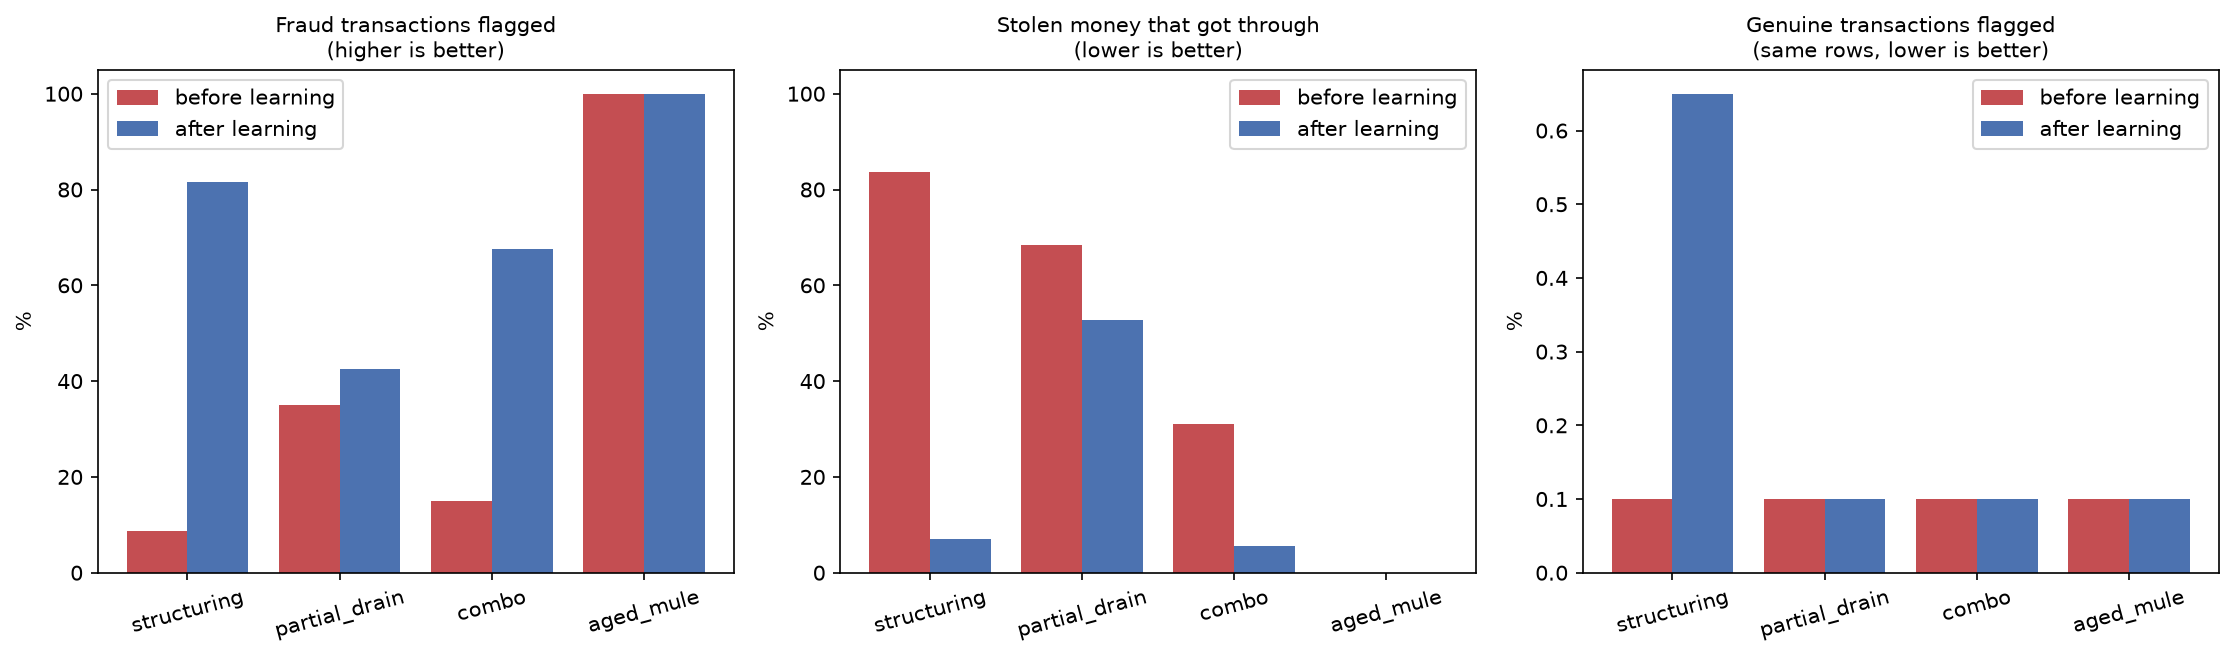
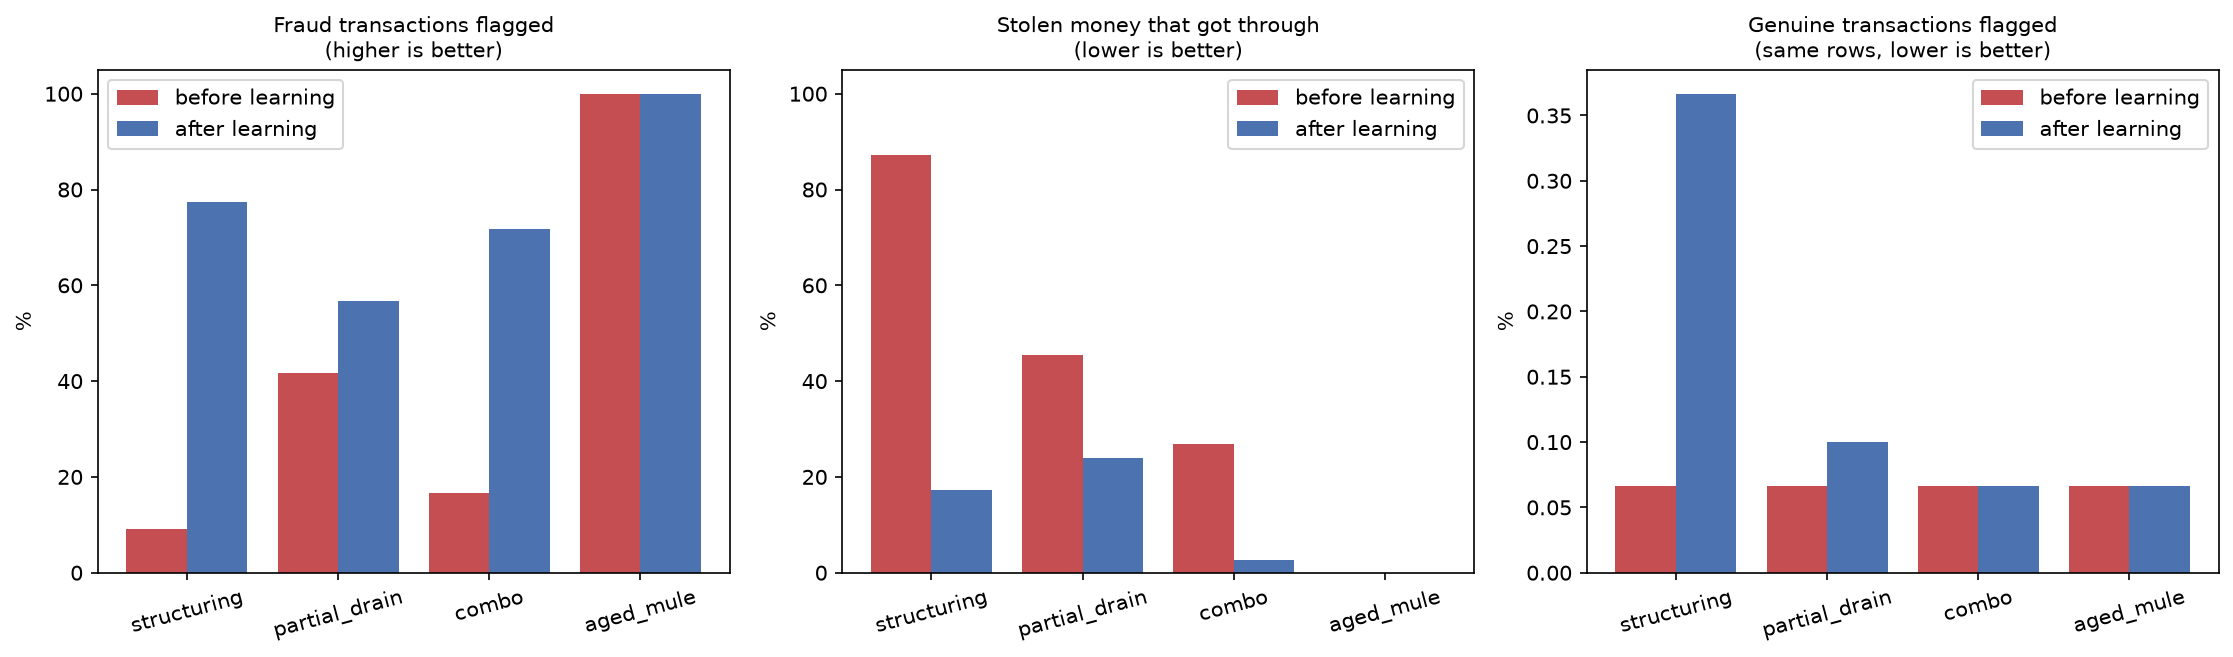
Phase 3 results: large red-team run, chart, report and write-up

diff --git a/docs/phase3_adaptive_loop.md b/docs/phase3_adaptive_loop.md
@@ -1,0 +1,41 @@
+# Phase 3: Adaptive loop
+
+## What it does
+Analysts' labels change how the system scores similar transactions in the future.
+
+- `POST /feedback` (alert reviewed) and `POST /transactions/{id}/report-fraud` (fraud that was approved, for example a customer dispute) both store the transaction as a labelled case.
+- Rule `LEARNED_FRAUD_PATTERN`: among the 10 most similar cases, analyst-confirmed fraud minus analyst-confirmed legitimate is 3 or more sends a transaction to review, and 5 or more blocks it. Seeded training cases never count, only analyst labels.
+- A "legitimate" label cancels one fraud label, so false alarms can be cleared by analysts.
+- Case search is exact (not approximate), so results are identical on every database.
+
+## Red-team experiment
+`backend/scripts/redteam.py` rewrites real held-out fraud into evasive variants, changing only what an attacker controls: split into transfers just under the 200k rule threshold (structuring), take part of the balance (partial drain), move to daytime hours, first deposit small normal-looking amounts into the receiving account (groomed mule), and a combination. Balances stay consistent and every attack uses fresh accounts.
+
+Protocol: score 60 fresh attacks (before), analysts label 20 attacks, score 60 different fresh attacks (after). Genuine transactions (3,000) are re-scored read-only on the same rows before and after.
+
+| Variant | Fraud flagged | Blocked | Stolen money that got through | Genuine flagged (of 3,000) |
+|---|---|---|---|---|
+| Structuring | 9.0% -> 77.4% | 7.0% -> 64.2% | 87.3% -> 17.2% | 2 -> 11 |
+| Combo | 16.7% -> 71.7% | 0% -> 55.0% | 27.0% -> 2.7% | 2 -> 2 |
+| Partial drain | 41.7% -> 56.7% | 16.7% -> 31.7% | 45.4% -> 24.0% | 2 -> 3 |
+| Groomed mule (control) | 100% -> 100% | 95% -> 100% | 0% -> 0% | 2 -> 2 |
+
+Chart: `ml/reports/11_redteam_before_after.png`. Raw numbers: `ml/metrics/redteam_results.json`.
+
+## Honest caveats
+- PaySim is synthetic and the variants are ones we designed. This is a robustness stress test, not a proof of real-world performance.
+- Partial drain is the weakest case: a single mid-size transfer looks like normal traffic.
+- Learning costs a few extra reviews (structuring: 9 more per 3,000 genuine, review only). Marking those legitimate switches the rule off for similar transactions again (measured on held-out data: 9 extra flags fell back to 2 after clearing about 5 alerts).
+- Numbers move by a few points between run sizes (a 40-attack run gave structuring 84% -> 7% of money through; the 60-attack run gives 87% -> 17%).
+- Feedback can be abused by someone with analyst access. Mitigations: roles, an audit trail in the feedback table, and the 3-case minimum.
+- Approximate nearest-neighbour search (HNSW) returned different neighbours on different index builds, which made the first version of this experiment irreproducible. Search is now exact (about 5 ms per query at 23k cases); switch back with `SIMILARITY_EXACT=false` only for very large case stores.
+
+## Reproduce
+```bash
+cd backend
+../.venv/bin/python -m scripts.redteam --show            # one example of each variant
+../.venv/bin/python -m scripts.redteam --scenarios 60 --learn 20 --genuine 3000 \
+  --report ../ml/metrics/redteam_results.json --plot ../ml/reports/11_redteam_before_after.png
+```
+
+The default is a dry run that is rolled back, so the database is left unchanged.
